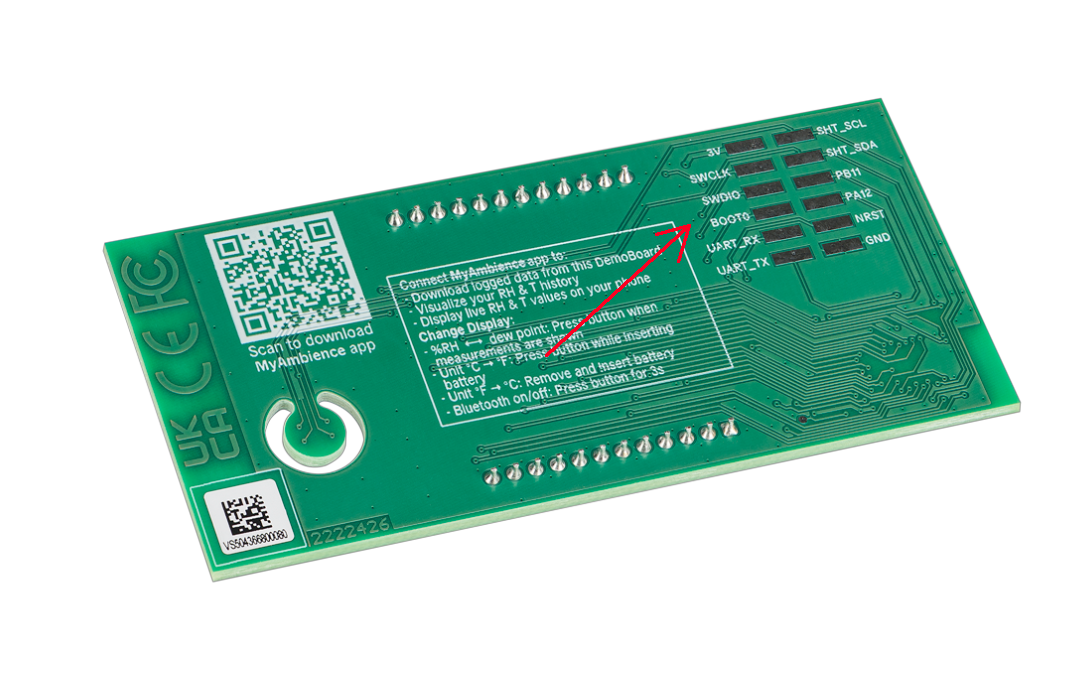
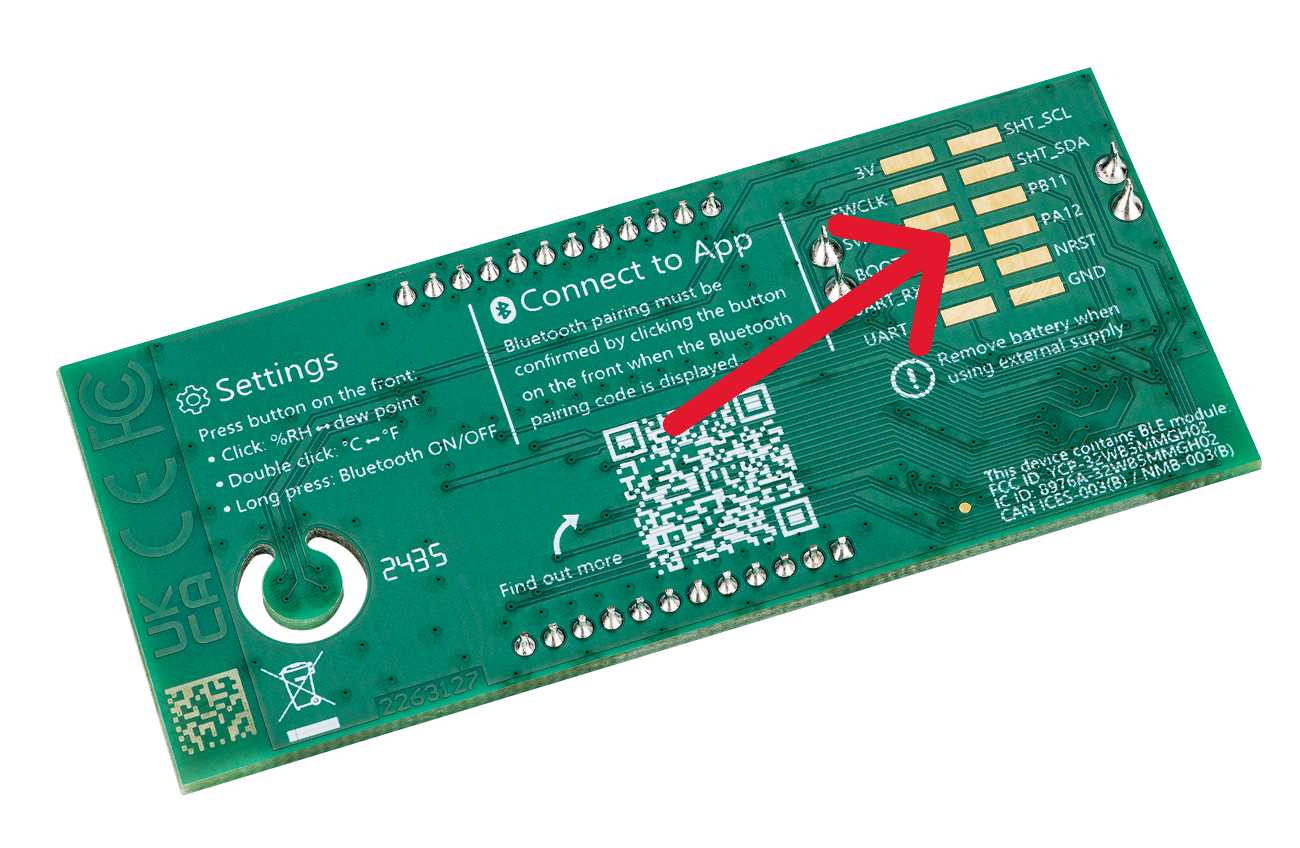
Update readme
The pictures are updated and a note about how to enable the UART is
added.

diff --git a/README.md b/README.md
@@ -166,7 +166,8 @@ cd ./workdir
 ## Setup wired connection with host
 
 To debug the application and to load a new built application you require a wired connection to the host. To establish this you will need to solder a connector to the designated pads on the backside of the board.
-<img src="./documentation/doxygen/diagrams/SHT43_back_with_arrow.png" alt="image" width="50%" height="auto">
+
+<img src="./documentation/doxygen/diagrams/SHT43_back_with_arrow.png" alt="image of SHT43 DemoBoard connector" height="300px">
 
 >:warning: *Don't supply the board from an external power supply while the battery is plugged in!*
 
@@ -188,6 +189,28 @@ All the twelve pads are labeled. Not all of them are required to be connected to
 |PB12|-|
 |NRST|JTAG-RESET|
 |GND| JTAG-GND|
+
+### Logging SHT43 DemoBoard output to Serial Terminal
+
+By default the UART is switched off right after the boot up of the firmware in order reduce power consumption. Nevertheless it is possible to enable the UART output of the SHT43 DemoBoard either by modifying the firmware or
+using the BLE-Service **Device settings** *[uuid: 00008100-b38d-4985-720e-0f993a68ee41]* and setting the characteristics **IsLoggingEnabled** *[uuid: 000081fe-b38d-4985-720e-0f993a68ee41]* to 1.
+
+For communication with the SHT43 DemoBoard the UART needs to be configured as follows:
+
+|Setting | value|
+|----------|----------------:|
+|Baud-rate| 19200|
+|Data bits| 8|
+|Parity| None|
+| Stop bits| 1|
+| Hardware flow control| None|
+
+When the logging is enabled the SHT43 DemoBoard will output the measured temperature and humidity to the UART.
+
+<img src="./documentation/doxygen/diagrams/demo_board_trace.jpg" alt="SHT43 DemoBoard trace output"  height="400px">
+
+With a debug build of the SHT43 DemoBoard the UART can also be used to output debug messages. It is also possible to send data to the SHT43 DemoBoard for dedicated test scenarios.
+
 
 
 ## Loading the application to the SHT43 DemoBoard
